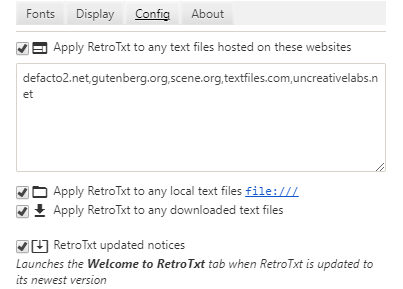
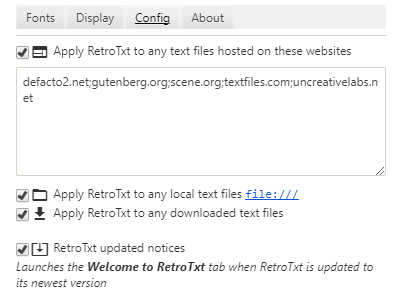
Document fixes
New screenshots, added https links and grammar fixes.

Changed region(s): [[0.0299, 0.0311, 0.9851, 0.7785], [0.0299, 0.8097, 0.9254, 0.9343], [0.2388, 0.9654, 0.2687, 0.9965]]

diff --git a/docs/options.md b/docs/options.md
@@ -2,14 +2,13 @@
 
 ## Options
 
-The Options dialogue lets you select a wide variety of font, colour and size combinations.
-That RetroTxt will use when theming text in the browser, as well as a number behaviour configurations to automate the execution of RetroTxt when it encounters text files.
+The Options dialogue lets you select a wide variety of font, colour and size combinations that RetroTxt will use when theming text in the browser. As well as a number behaviour configurations, to automate the execution of RetroTxt when it encounters text files.
 
-In Chrome, you can launch the Options dialogue by right-clicking the RetroTxt toolbar button and selecting __Options__.
+In Chrome, you launch the Options dialogue by right-clicking the RetroTxt toolbar button and selecting __Options__.
 
 ![Line height selection](assets/retrotxt_toolbar_button_chrome.png)
 
-In Firefox the Options dialogue can be accessed from the Extensions tab.
+With Firefox the Options dialogue is accessed from the Extensions tab.
 To do this, in a new tab enter the address `about:addons` and select **Extensions**.
 Then click the Options button under the RetroTxt listing.
 
@@ -17,8 +16,12 @@ Then click the Options button under the RetroTxt listing.
 
 ![Font options selection](assets/options_fonts.png)
 
-RetroTxt has 25 different monospaced font choices to apply to text. Some fonts have wide and tall variants.
-Those listed in the left pane are IBM PC, PS/2 and MS-DOS clone system fonts while the ones on the right belong to other home computer systems.
+RetroTxt has 25 different monospaced font choices to apply to text. Some fonts have `⇆` wide and `⇅` tall variants.
+Those listed in the left pane are IBM PC, IBM PS/2 and Microsoft DOS system fonts while the ones on the right belong to other home computer systems.
+
+The _Browser_ __Monospace__ _fixed-width_ selection uses a monospace font configured by the browser. This font selection is selectable within the browser under the _font_ settings.
+
+![Chrome browser fixed-width font selection](assets/chrome_fixed-width_font.png)
 
 ### Display
 
@@ -28,16 +31,16 @@ Those listed in the left pane are IBM PC, PS/2 and MS-DOS clone system fonts whi
 
 ![Colour pair](assets/options_colour_pair.png)
 
-The Colour pair menu allows you to apply a colour to text and background theme to all text handled by RetroTxt.
-These pairs are also base colours for colourize ANSI text.
+The Colour pair menu allows you to apply colour to text and a background theme to all characters handled by RetroTxt.
+These pairs are also base colours for colourising ANSI text.
 
-The choices ordered into three categories. Systems are recreations of ancient computer operating systems.
-Dark and Light correspond to colours used on either a black (Dark) or white (Light) background.
+The ordered choices are in three categories. __Systems__ are recreations of ancient computer operating systems.
+__Dark__ and __Light__ correspond to colours used on either a black (Dark) or white (Light) background.
 
 The RGB values of these colour pairs are in the source code `\css\text-colors.css`
 
 - **MS-DOS** uses VGA grey text on black.
-- **Windows** is themed on its `notepad.exe` program and uses black text on white.
+- **Windows** is themed on the `notepad.exe` program and uses black text on white.
 - **Apple II** based on the Apple home computer.
 - **Amiga** based on the Commodore Amiga Workbench with white text on grey.
 - **Atari ST** based on the Atari TOS with black text on white.
@@ -49,7 +52,7 @@ The RGB values of these colour pairs are in the source code `\css\text-colors.cs
 
 ![Line height selection](assets/options_line_height.png)
 
-Line height lets you add padding between each line of text. The amount of padding used is dependent on the size of the font.
+Line height lets you add padding to each line of text. The amount of padding used is dependent on the size of the font.
 A **25%** line height would introduce padding 1/4 of the height of the font.
 A **1x** (100%) value would pad the same height as the font in use.
 
@@ -100,7 +103,7 @@ Is the font name used.
 
 `ANSI`
 
-Any special controls or functions embedded into the text. ANSI art, for example, uses ANSI control sequences while ASCII art doesn't use any special controls.
+Unique controls or functions embedded into the text. ANSI art, for example, uses ANSI control sequences while ASCII art doesn't use any extra controls.
 
 - **ANSI** ECMA-48/ANSI X3.64 presentation control and cursor functions
 - **PCBoard** PCBoard BBS text colourisation
@@ -110,7 +113,7 @@ Any special controls or functions embedded into the text. ANSI art, for example,
 
 Highlights any errors or warnings encountered when parsing ANSI encoded text.
 
-[SAUCE metadata](http://www.acid.org/info/sauce/sauce.htm) may also be inserted into the header.
+[SAUCE metadata](http://www.acid.org/info/sauce/sauce.htm) may also be in the header.
 _Standard Architecture for Universal Comment Extensions_ is often found in ANSI art but can be attached to any document and allows the author to include titles, dates, comments and affiliations.
 
 ### Centre align text
@@ -119,7 +122,7 @@ Positions the text document from the left-top margin to the centre the of the di
 
 ### DOS control glyphs
 
-The PC/MS-DOS _Code Page 437_ is not completely standards compliant as it uses C0 characters normally reserved for common formatting controls to display character glyphs.
+The PC/MS-DOS _Code Page 437_ is not entirely standards compliant as it uses C0 characters usually reserved for common formatting controls to display character glyphs.
 As such these characters are never displayed but enabling this option will reveal these glyphs in the text document.
 
 ◘ <small>_= backspace_</small>
@@ -130,19 +133,19 @@ As such these characters are never displayed but enabling this option will revea
 
 ### Background scanlines
 
-Apply a subtle scan line effect to the backdrop of the page. The effect is more pronounced on light backgrounds but is not applied to the text.
+Apply a subtle scan line effect to the backdrop of the page. The result is more pronounced on light backgrounds and ignores the text.
 
 ### Text render
 
 #### Normal
 
-Does nothing but the host operating system or browser will most likely apply some font smoothing to the text characters.
+Lets the host operating system or browser handle the font smoothing.
 
 ![Normal text render](assets/text_render_normal.png)
 
 ##### Smeared
 
-Most browsers (other than FireFox on Windows) display vertical line artefacts when showing block characters. This option implements a `text-shadow` property in an attempt to correct this. It unfortunately also blurs alphanumeric characters that make them less readable.
+Due to font smoothing, many browsers display vertical line artefacts when showing block characters together. This option implements a `text-shadow` property in an attempt to correct this but it also blurs alphanumeric characters to make them less readable.
 
 ![Smeared text render](assets/text_render_smeared.png)
 
@@ -158,8 +161,8 @@ Apply a subtle shadow effect to each character.
 
 ### Apply RetroTxt to any text files hosted on these websites
 
-When check the web extension runs in the background and applies RetroTxt to all text files served by websites listed in the textbox.
-You can add additional sites to this list by including their domain name appended by a semicolon, for example
+If check the web extension runs in the background and applies RetroTxt to all text files served by websites listed in the textbox.
+You can add additional sites to this list by including their domain name appended by a semicolon, for example.
 
 - [Defacto2](https://defacto2.net) `defacto2.net;`
 - [Gutenberg.org](https://www.gutenberg.org) `gutenberg.org;`

diff --git a/README.md b/README.md
@@ -8,13 +8,13 @@ Available for installation from both the [Chrome store](https://chrome.google.co
 
 - View ANSI, ASCII, NFO, PCBoard, Wildcat text art as HTML
 - RGB 16.7 million, xterm 256 and IBM VGA 16 colour support
-- Swappable ANSI palettes, xterm, VGA, cyan/magenta CGA, monochrome and toggable iCE Colors
+- Swappable ANSI palettes, xterm, VGA, cyan/magenta CGA, monochrome and switchable iCE Colors
 - Swappable ASCII & NFO colour themes, DOS, Windows, Amiga, C-64, Apple II, Atari ST
 - SAUCE metadata parsing
 - Multiple text encodings support including CP437, ISO-8959-1, Windows-1252
 - Text rendering toggles, smeared, shadow and normal
-- Multiple IBM PC font support such as VGA, EGA, CGA, MDA plus variants and more
-- Multiple Amiga fonts plus Commodore PETSCII, Atari ATASCII, ST and Apple II
+- Multiple IBM PC font support such as VGA, PS/2, EGA, CGA, MDA plus variants and more
+- Various Amiga fonts plus Commodore PETSCII, Atari ATASCII, ST and Apple II
 
 ![RetroTxt showcase](/docs/assets/zii-rtxt-ad.png)
 
@@ -30,19 +30,21 @@ Available for installation from both the [Chrome store](https://chrome.google.co
 
 ### Requirements
 
-**Chrome 55** or **Firefox 55**, newer or compatible browsers.
+**Chrome 55** or **Firefox 55** or newer browsers.
 
 ## Run RetroTxt
 
 After install you can run RetroTxt on any text or ANSI art file viewed in the browser by clicking the toolbar button.
 
-Chrome and Firefox buttons
+Selected toolbar button
 
-![RetroTxt toolbar button in Chrome](/docs/assets/retrotxt_toolbar_button_chrome.png) ![RetroTxt toolbar button in Firefox](/docs/assets/retrotxt_toolbar_button_firefox.png)
+![RetroTxt toolbar button in Chrome](/docs/assets/retrotxt_toolbar_button_chrome.png)
 
-You can test the RetroTxt install using one of the thousands of text files hosted at [textfiles.com](http://textfiles.com/directory.html) or [Project Gutenberg's](https://www.gutenberg.org/catalog/) _plain text_ books.
+You can test the RetroTxt install by clicking on one of the 10 Sample artworks found on the `welcome.html` tab that launches after installation.
 
-Or download one of the amazing text art packs created by [Blocktronics](http://blocktronics.org/artpacks/) or found at [textmod.es](http://pc.textmod.es/) and use the `file:///` protocol to browse and view the text art files saved onto your hard drive.
+![RetroTxt samples](/docs/assets/rtxt-samples.png)
+
+Elsewhere there are thousands of text files hosted at [textfiles.com](https://textfiles.com/directory.html) or [Project Gutenberg's](https://www.gutenberg.org/catalog/) _plain text_ books. Or download one of the amazing text art packs created by [Blocktronics](http://blocktronics.org/artpacks/) or found at [textmod.es](https://pc.textmod.es/) and use the `file:///` protocol to browse and view the text art files saved onto your hard drive.
 
 ### Permissions
 
@@ -54,19 +56,19 @@ Chrome requires **Allow access to file URLs** selected if you wish to use RetroT
 
 #### An important note about the license
 
-While RetroTxt uses a [GNU Lesser General Public License v3.0](http://choosealicense.com/licenses/lgpl-3.0/), the included fonts **are not**. You should read each font license that is in the `fonts/` subdirectory before redistribution, as some of the added collections do not permit the sale or modification of their fonts and packages.
+While RetroTxt uses a [GNU Lesser General Public License v3.0](https://choosealicense.com/licenses/lgpl-3.0/), the included fonts **are not**. You should read each font license that is in the `fonts/` subdirectory before redistribution, as some of the added collections do not permit the sale or modification of their fonts and packages.
 
 ## Credits
 
-RetroTxt by [Ben Garrett](http://bens.zone/) who can be reached at [Twitter @bens_zone](https://twitter.com/bens_zone) or [GitHub](https://github.com/bengarrett/)
+RetroTxt by [Ben Garrett](https://bens.zone/) on [Twitter @bens_zone](https://twitter.com/bens_zone) and [GitHub](https://github.com/bengarrett/)
 
 RetroTxt ANSI logo Zeus II [Twitter @Zeus_II](https://twitter.com/Zeus_II)
 
-- PC fonts [_The Ultimate Oldschool PC Font Pack_](http://int10h.org/oldschool-pc-fonts/) by Viler
-- Commodore Amiga fonts [_Multi Platform Fonts In Amiga Aspect v1.0_](http://www.trueschool.se/) by TrueSchool Ascii
+- PC fonts [_The Ultimate Oldschool PC Font Pack_](https://int10h.org/oldschool-pc-fonts/) by Viler
+- Commodore Amiga fonts [_Multi Platform Fonts In Amiga Aspect v1.0_](https://www.trueschool.se/) by TrueSchool Ascii
 - Apple II font [_Print Char 21_](http://www.kreativekorp.com/software/fonts/apple2.shtml) by Kreative Korp
 - Atari ATASCI font [_Atari Classic TrueType Fonts_](http://members.bitstream.net/marksim/atarimac/fonts.html) by Mark L. Simonson
-- Atari ST font [_8x16 system font_](http://www.dafont.com/atari-st-8x16-system-font.font) by divVerent
+- Atari ST font [_8x16 system font_](https://www.dafont.com/atari-st-8x16-system-font.font) by divVerent
 - Commodore 64 font [_C64 Pro Mono TrueType v1.2_](http://style64.org/c64-truetype) from Style
 
 Options icons by [Google Material Design](https://material.google.com/)

diff --git a/docs/changes.md b/docs/changes.md
@@ -10,10 +10,10 @@
 - Redesigned some of the context menus.
 - Added a ▲ hide ▼ show toggle for the header.
 - Added 1x and 2x font size adjust toggle in the header.
-- Welcome page displays an RetroTxt updated banner that can also be turned off.
+- Welcome page displays a RetroTxt updated banner that can also be turned off.
 - Requires Firefox 55.
-- Links in the header are not selectedable to stop accidental selection when clicked.
-- Replaced columns/lines statistics in header with total pixel width/length.
+- Links in the header are not selectable to stop accidental selection when clicked.
+- Replaced columns/lines statistics in the header with total pixel width/length.
 - Fixed Blink engine handling of ANSI when it mistakenly sees it as ISO-8859-5 instead of Windows-1252.
 - Fixed broken preview images in `welcome.html`.
 - Fixed SAUCE font issue where it requests Amiga _Plus_ fonts but uses standard.
@@ -25,7 +25,7 @@
 - - Dropped the generation of elements using `dom.innerHTML` = text (except in `text_ecma48.js`).
 - - Removed all remaining `var` usage.
 - - Replaced many `let` variables with `const` objects.
-- - Renamed some variables so they are clearer in their purpose.
+- - Renamed some variables, so they are clearer in their purpose.
 - - Removed some unused functions and objects.
 
 ## 2.3
@@ -33,12 +33,12 @@
 ### August 2017
 
 - Added 24-bit RGB colour support for ANSI/ECMA-48 text. That gives a choice of over 16 million colours to play with.
-- New fonts, a complete set for Amiga and ATASCII (Atari 8-bit).
+- New fonts, a complete set of Amiga and ATASCII (Atari 8-bit).
 - Complete SAUCE FontName support.
 - Added 2-bit IBM CGA magenta palette.
 - Added Option checkbox, 'ANSI iCE colors'.
-- Fixed a number of CP437 characters not displaying as intended.
-- Fixed issue where 'DOS control glyphs' changes required 2 tab refreshes to apply.
+- Fixed some CP437 characters not displaying as intended.
+- Fixed issue where 'DOS control glyphs' changes required two tab refreshes to apply.
 - Any discovered SAUCE configurations are sent to the browser console.
 - Browser tab titles running RetroTxt are marked with `[··]`.
 
@@ -64,7 +64,7 @@
 
 ### March 2017
 
-- Performance optimizations to reduce the memory footprint and improve rendering speed.
+- Performance optimisations to reduce the memory footprint and improve rendering speed.
 - ECMA48/ANSI iCE colors support.
 - Automatic parsing and execution of [SAUCE ANSiFlags](http://www.acid.org/info/sauce/sauce.htm#ANSiFlags).
 - Added Atari ST TOS font and theme.

diff --git a/docs/qa.md b/docs/qa.md
@@ -14,9 +14,9 @@ To ask a question, report a bug or request a feature please feel free to [leave 
 ### Known issues
 
 * A browser's [MIME sniffing](https://en.wikipedia.org/wiki/Content_sniffing) will often override RetroTxt, forcing text files to download rather than display in a tab.
-* Firefox (Gecko) will often produce incorrect MIME sniffing results with the `http(s)://` protocol.
+* Firefox (Gecko) will usually produce incorrect MIME sniffing results with the `http(s)://` protocol.
 * Chrome (Blink) can produce incorrect MIME sniffing results with the `file:///` protocol.
-* Atari ATASCII and Commodore PETSCII art are not supported.
+* Unsupported formats include Atari ATASCII and Commodore PETSCII.
 
 <a id="font-size"></a>
 
@@ -36,7 +36,7 @@ On Windows, for example, pasting `C:\Users\Ben\Downloads\myfile.txt` into Chrome
 
 You can also [browse your Windows drive](file:///C:/) or [your Linux and macOS drives](file:///).
 
-Chrome will need to [__Allow access to the file URLs__ permission](chrome://extensions/) enabled if you want the to work with local files automatically.
+Chrome will need to [__Allow access to the file URLs__ permission](chrome://extensions/) enabled if you want them to work with local files automatically.
 
 In Windows to make a web browser your default text file viewer.
 
@@ -70,7 +70,7 @@ In __Firefox__ press <kbd>ALT</kbd> <kbd>v</kbd> and select __Text Encoding__.
 
 Choose a more suitable character encoding but if you are not quite sure which one to use but the document is in English. First, try the __Unicode (UTF-8)__ then each of the other __Western__ options.
 
-Without using a 3rd-party web extension, **Chrome** has no ability to switch the character encoding.
+Without using a 3rd-party web extension, **Chrome** cannot switch the character encoding.
 
 You could also try to manually switch the transcoding RetroTxt applies by right-clicking on the page and select __Transcode text__ from the __RetroTxt__ context menu.
 

diff --git a/docs/menus.md b/docs/menus.md
@@ -31,11 +31,11 @@ Positions the text document from the left-top margin to the centre the of the di
 
 ##### Scan lines
 
-Apply a subtle scan line effect to the background of the page. The effect is more pronounced on light backgrounds but is not applied to the text.
+Apply a subtle scan line effect to the background of the page. The result is more pronounced on light backgrounds and is not applied to the text.
 
 #### Transcode text
 
-Character encoding is complicated and the execution not always precise. If you encounter text that is not displaying as expected, you can transcode the text to display a different set of characters. Transcode text selections only apply to the active browser tab.
+Character encoding is complicated and the execution not always precise. If you encounter text that is not displaying as expected, you can transcode the text to show a different set of characters. Transcode text selections only apply to the active browser tab.
 
 ![Font options selection](assets/menu_transcode_text.png)
 
@@ -57,7 +57,7 @@ Force the active tab to parse the source text using [**CP-1252**](https://en.wik
 
 ##### ↻ CP-1252
 
-Force the active tab to display the text using **CP-1252**, the common legacy Microsoft Windows encoding instead of the default MS-DOS [*CP-437*](https://en.wikipedia.org/wiki/Code_page_437).
+Force the active tab to display the text using **CP-1252**, a familiar legacy Microsoft Windows encoding instead of the default MS-DOS [*CP-437*](https://en.wikipedia.org/wiki/Code_page_437).
 
 ##### ↺ ISO 8859-5
 

diff --git a/docs/other_projects.md b/docs/other_projects.md
@@ -2,11 +2,11 @@
 
 ## Similar projects
 
-Many great programs that offer similar functionality inspire RetroTxt.
+Many excellent programs that offer similar functionality inspire RetroTxt.
 
 ### ansilove
 
-Is a collection of tools for various platforms to convert an extensive variety of text art into PNG images.
+Is a collection of tools on various platforms, to convert an extensive variety of text art into PNG images.
 
 * [ansilove.js](https://ansilove.github.io/ansilove.js) for JavaScript
 * [ansilove](https://www.ansilove.org) for PHP
@@ -24,7 +24,7 @@ Converts ANSI into PNG images.
 
 ### PabloDraw
 
-_PabloDraw is an Ansi/Ascii text and RIPscrip vector graphic art editor/viewer with multi-user capabilities._
+_PabloDraw is an ANSI/Ascii text and RIPscrip vector graphic art editor/viewer with multi-user capabilities._
 [PabloDraw](http://picoe.ca/products/pablodraw) for Windows, macOS and Linux
 
 ### ACiDView
@@ -34,5 +34,5 @@ The granddaddy of ANSI art viewers that has a pedigree that goes back decades.
 
 ### iNFekt
 
-A modern ASCII, NFO and ANSI art viewer and terminal converter for Windows.
+An ASCII, NFO and ANSI art viewer and terminal converter for Windows.
 [iNFekt](https://infekt.ws/) for Windows

diff --git a/docs/nginx.md b/docs/nginx.md
@@ -29,7 +29,7 @@ location /ansi {
 }
 ```
 
-Broken down the `location` block applies the configuration only to files using the path http://example.com/ansi/. While the `types` block filters that further to only use the configuration with files using an `asc` `ans` or `txt` file extension.
+Broken down the `location` block applies the configuration only to files using the path http://example.com/ansi/. While the `types` block filters that further to just use the setting with files utilising an `asc` `ans` or `txt` file extension.
 
 `charset "ISO-8859-1"` directive combined with the `types { text/plain }` block will add a **`Content-Type:text/plain; charset=ISO-8859-1`** response header. It tells the browser to treat the file as plain text encoded as [ISO-8859-1](https://en.wikipedia.org/wiki/ISO/IEC_8859-1), which is a legacy character set RetroTxt can understand. You cannot use [CP-437](https://en.wikipedia.org/wiki/Code_page_437) or other DOS code pages as they are not [valid browser encodings](https://encoding.spec.whatwg.org/#legacy-single-byte-encodings).
 

diff --git a/docs/index.md b/docs/index.md
@@ -2,7 +2,7 @@
 
 ## About
 
-Despite the web built on text, the modern web is incapable of accurately displaying text written in legacy formats that have been in common use for decades.
+Despite the web built on text, the modern web is incapable of accurately displaying text written in legacy formats that have been in everyday use for decades.
 
 Here is where RetroTxt comes in. It converts legacy text into modern HTML for your web browser including `nfo` `txt` ASCII and ANSI art, either hosted online or stored on your computer. RetroTxt then injects an accurate retro monospace font and applies optional styling to improve the display and readability.
 

diff --git a/docs/source_code.md b/docs/source_code.md
@@ -45,7 +45,7 @@ The web-ext tool is the preferred method and [has a dedicated web page](https://
 
 ![web-ext run example](assets/web-ext_example.png)
 
-Otherwise if you prefer using Firefox Developer Edition.
+Otherwise, if you prefer using Firefox Developer Edition.
 
 1. Open a new tab and type in the address `about:debugging`
 1. Click the __Load Temporary Add-on__ button and navigate to the local directory containing the RetroTxt source code
